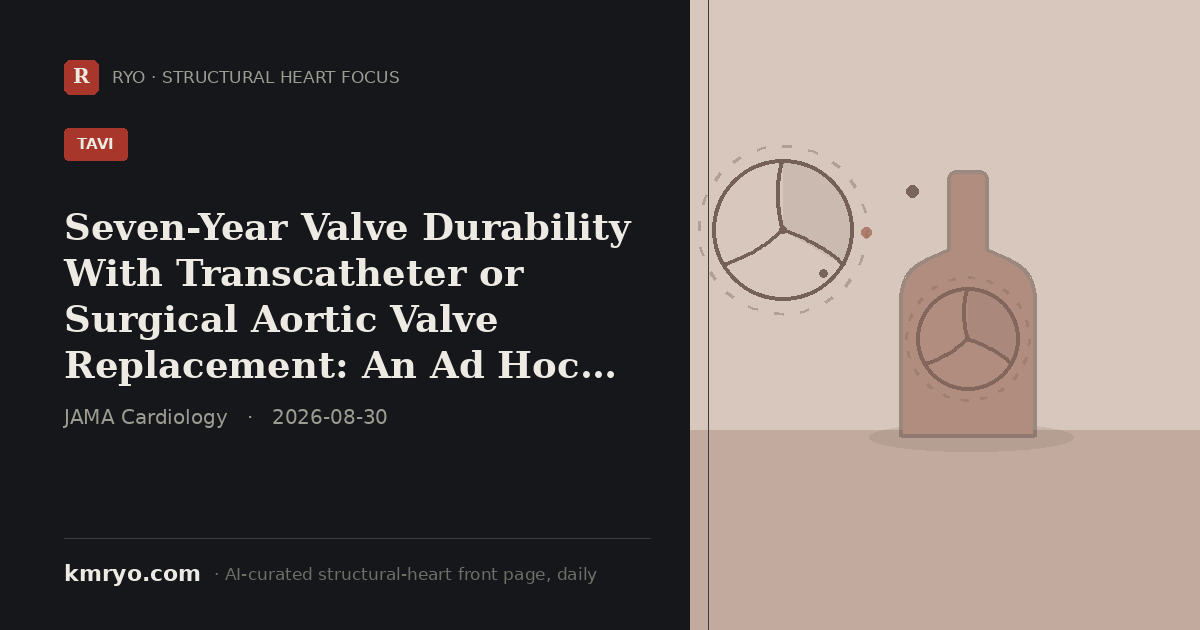
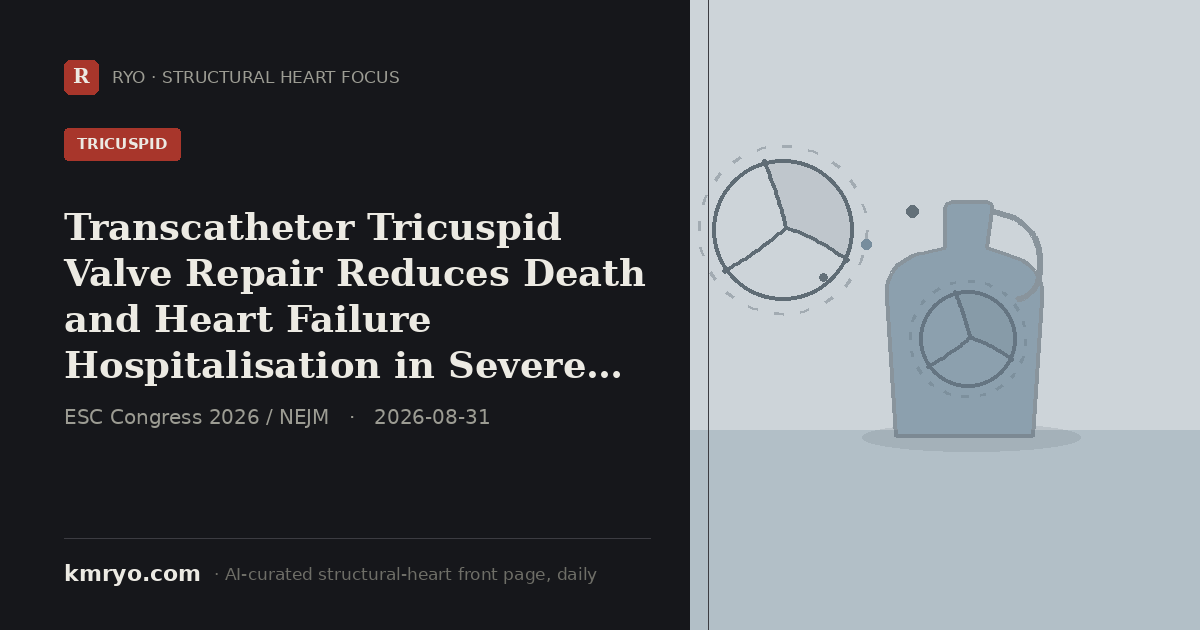
pulse: 2026-08-31 daily update

diff --git a/index.html b/index.html
@@ -6,8 +6,8 @@
 <title>Structural Heart Focus — Daily | Dr. Mi Chen · 千觅量子 RYO</title>
 <meta name="description" content="Structural Heart Focus — the day's most important structural-heart reading (top journals, major meetings and the field's conversation), curated daily by an AI agent from inside the Zurich hybrid room. By Dr. Mi Chen · 千觅量子 RYO.">
 <!-- Social share card. Regenerated daily by the pulse agent (pulse/make_share_card.py); og:title/description updated to the day's top story so LinkedIn/WeChat/X show today's headline, not a static portrait. -->
-<meta property="og:title" content="Seven-Year Valve Durability With Transcatheter or Surgical Aortic Valve Replacement: An Ad Hoc Analysis of the PARTNER 3 Randomized Clinical Trial">
-<meta property="og:description" content="PARTNER 3 7-year analysis: TAVR and surgical AVR show comparable durability in low-risk patients — structural valve deterioration 7.3% vs 7.6%, reintervention 6% vs 5.5%.">
+<meta property="og:title" content="Transcatheter Tricuspid Valve Repair Reduces Death and Heart Failure Hospitalisation in Severe Tricuspid Regurgitation: The TRIC-I-HF Trial">
+<meta property="og:description" content="ESC 2026 Hot Line / NEJM: TRIC-I-HF, the first RCT to show TTVI cuts death or HF hospitalisation in severe tricuspid regurgitation (52.4% vs 21.0% event-free at 3 years).">
 <meta property="og:image" content="https://www.kmryo.com/pulse/img/share/card.png">
 <meta property="og:image:width" content="1200">
 <meta property="og:image:height" content="630">
@@ -16,8 +16,8 @@
 <meta property="og:type" content="website">
 <meta property="og:site_name" content="kmryo.com · Structural Heart Focus">
 <meta name="twitter:card" content="summary_large_image">
-<meta name="twitter:title" content="Seven-Year Valve Durability With Transcatheter or Surgical Aortic Valve Replacement: An Ad Hoc Analysis of the PARTNER 3 Randomized Clinical Trial">
-<meta name="twitter:description" content="PARTNER 3 7-year analysis: TAVR and surgical AVR show comparable durability in low-risk patients — structural valve deterioration 7.3% vs 7.6%, reintervention 6% vs 5.5%.">
+<meta name="twitter:title" content="Transcatheter Tricuspid Valve Repair Reduces Death and Heart Failure Hospitalisation in Severe Tricuspid Regurgitation: The TRIC-I-HF Trial">
+<meta name="twitter:description" content="ESC 2026 Hot Line / NEJM: TRIC-I-HF, the first RCT to show TTVI cuts death or HF hospitalisation in severe tricuspid regurgitation (52.4% vs 21.0% event-free at 3 years).">
 <meta name="twitter:image" content="https://www.kmryo.com/pulse/img/share/card.png">
[1 lines of base64/hex data omitted]
 <link rel="preconnect" href="https://fonts.googleapis.com">
